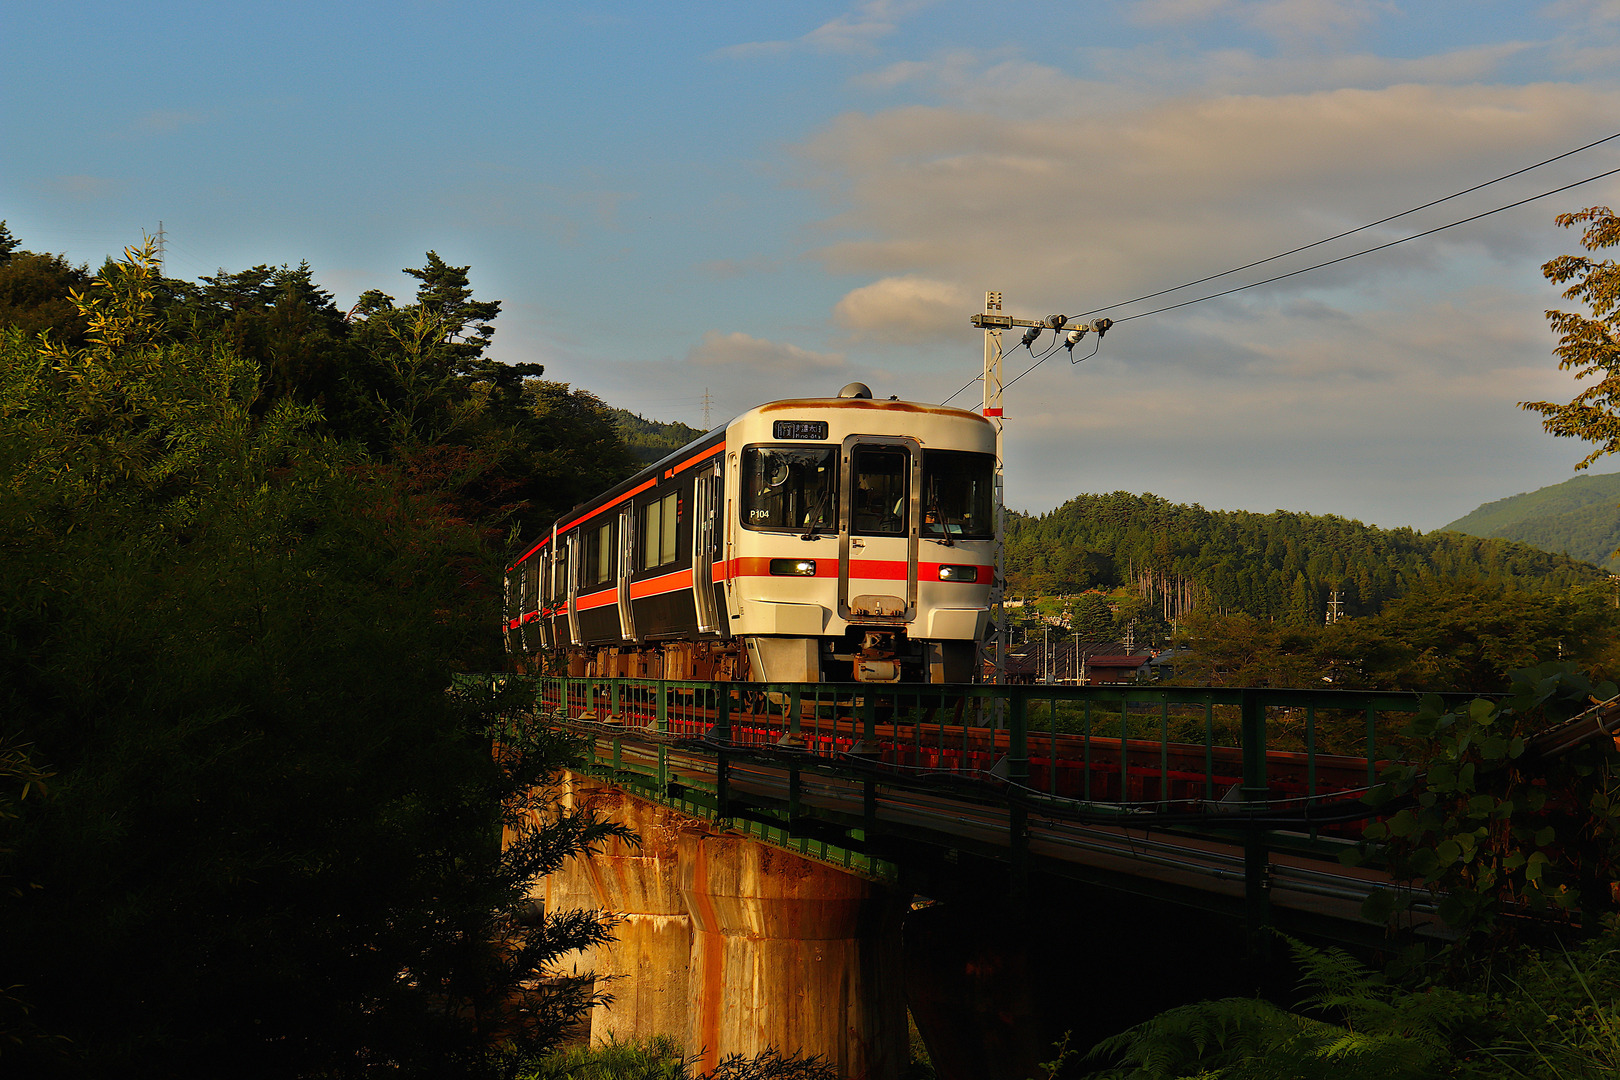
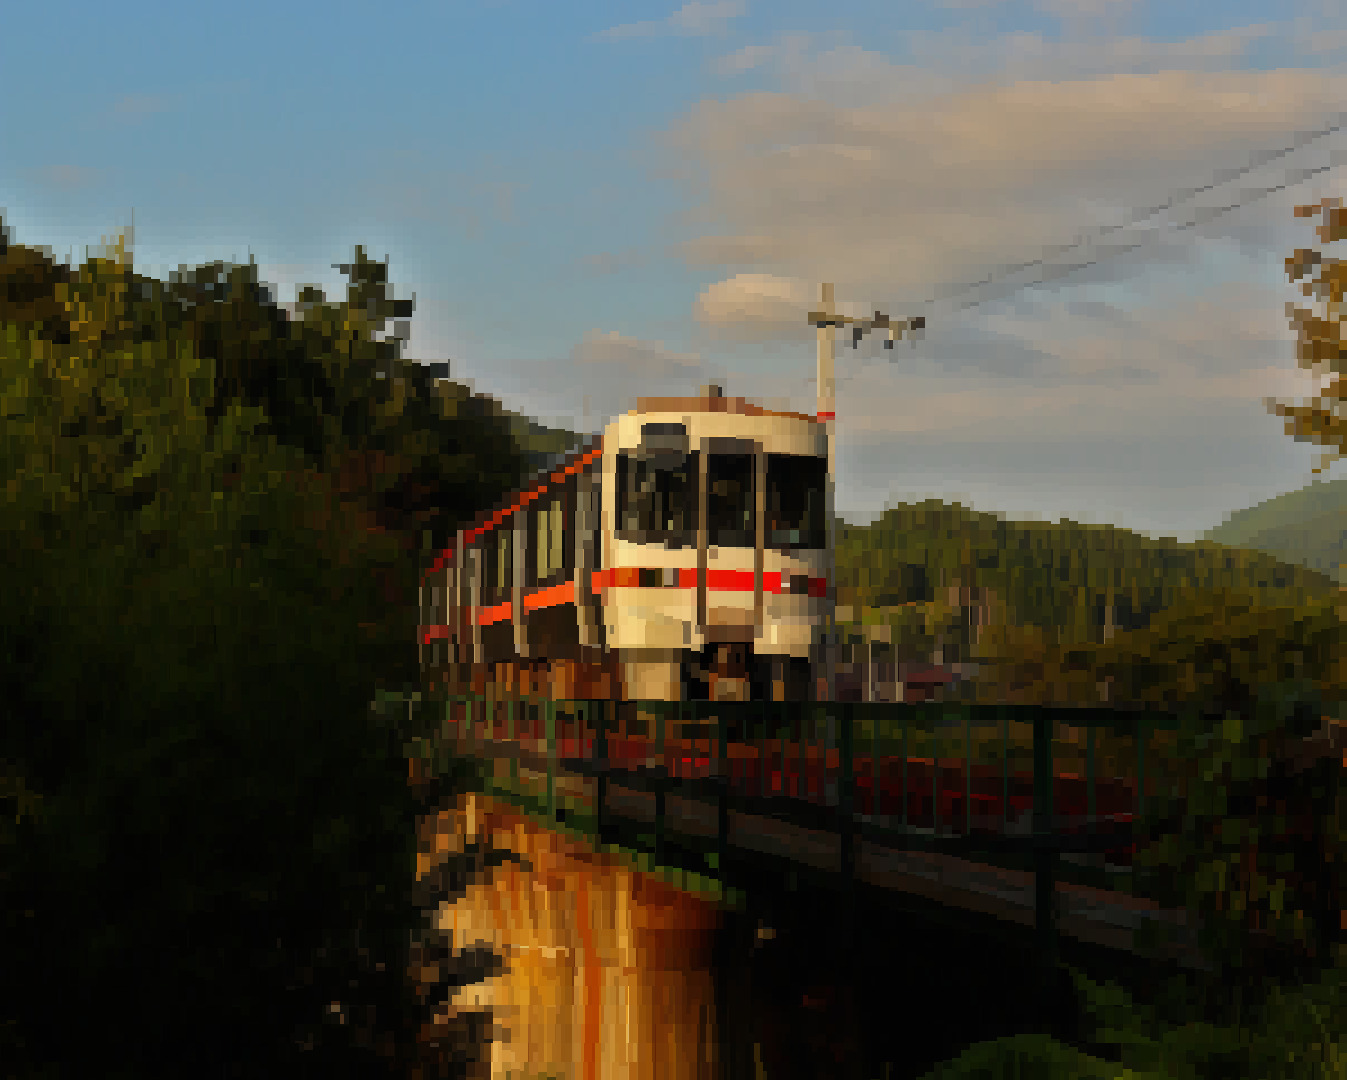
added project showcase section

diff --git a/projects.html b/projects.html
@@ -21,7 +21,66 @@
 <body>
 	<div class="container">
 		<div id="header"></div>
-		WIP
+
+		<section class="hero">
+
+			<div class="project-card">
+				<a class="project-link" href="vox_ren.html">
+					<div class="project-card-title">VoxRen</div>
+				</a>
+				<img class="project-card-image" src="assets/car.jpeg" alt="car">
+				<div class="technology-section">
+					<div class="technology-card">C</div>
+					<div class="technology-card">OpenCL</div>
+					<div class="technology-card">Python</div>
+					<div class="technology-card">Raylib</div>
+					<div class="technology-card">GUI app</div>
+				</div>
+				<div class="project-card-description">
+					A GPU pathtracer for voxel environments written in C and OpenCL (also some python scripts). It
+					supports lambert, metal, and light source materials, and I'm currently working on implementing
+					dielectric (transparent) materials. Very much WIP.
+				</div>
+			</div>
+
+			<div class="project-card">
+				<a class="project-link" href="ptmv.html">
+					<div class="project-card-title">ptmv</div>
+				</a>
+				<img class="project-card-image" src="assets/big_buck_bunny.gif" alt="video">
+				<div class="technology-section">
+					<div class="technology-card">Python</div>
+					<div class="technology-card">console app</div>
+				</div>
+				<div class="project-card-description">
+					A terminal app that can display static images and play videos (both local and from YouTube) by
+					using the unicode character "▄" as a set of two pixels. All main features have been implemented,
+					and it can be installed via PIP.
+				</div>
+			</div>
+
+			<div class="project-card">
+				<a class="project-link" href="itu.html">
+					<div class="project-card-title">imageToUnicode</div>
+				</a>
+				<img class="project-card-image" class="pixel-art" src="assets/train.jpeg" alt="train">
+				<div class="technology-section">
+					<div class="technology-card">C</div>
+					<div class="technology-card">Python</div>
+					<div class="technology-card">Single header C library</div>
+					<div class="technology-card">Python library</div>
+				</div>
+				<div class="project-card-description">
+					A project aimed to improve <a class="basic-link" href="ptmv.html">ptmv</a> by increasing the number
+					of unicode characters that can be used to display an image from 1 to 19. It is currently just a C
+					library, but I'm planning to make it into a python library (still using a C backend), and use it to
+					improve <a class="basic-link" href="ptmv.html">ptmv</a>.
+				</div>
+			</div>
+
+
+		</section>
+
 		<div id="footer"></div>
 	</div>
 

diff --git a/styles/projects.css b/styles/projects.css
@@ -1,0 +1,55 @@
+.hero {
+	margin: auto;
+	align-items: flex-start;
+}
+
+.project-link {
+	flex: 1;
+	/* margin: 1rem; */
+}
+
+.project-card {
+	color: var(--on-surface);
+	margin-bottom: 1rem;
+	padding: 1rem;
+	text-align: center;
+	background-color: var(--surface-color);
+	border-radius: 1rem;
+	transition: transform .2s;
+}
+
+.project-card-title {
+	color: var(--on-surface);
+	background-color: var(--primary-color);
+	font-size: 1.5rem;
+	font-weight: bold;
+	padding: 1rem;
+	border-radius: 1rem;
+}
+
+.project-card-image {
+	margin-top: 1rem;
+	width: 100%;
+	border-radius: 1rem;
+}
+
+.technology-section {
+	margin-top: 1rem;
+	display: flex;
+	justify-content: center;
+}
+
+.technology-card {
+	margin: 0rem 0.5rem;
+	padding: 0.25rem 0.5rem;
+	border-radius: 0.25rem;
+	background-color: var(--primary-color);
+}
+
+.project-card-description {
+	margin-top: 1em;
+	padding: 1rem;
+	color: var(--on-surface);
+	background-color: var(--surface-color-2);
+	border-radius: 1rem;
+}

diff --git a/index.html b/index.html
@@ -28,7 +28,7 @@
 					<div class="section-card-title">Projects</div>
 					<img class="section-card-image" src="assets/car.jpeg" alt="car">
 					<div class="section-card-description">
-						TODO: description
+						Descriptions and brief introductions to some of the main projects I'm working on.
 					</div>
 
 				</div>
@@ -38,7 +38,7 @@
 					<div class="section-card-title">Photos</div>
 					<img class="section-card-image" src="assets/train.jpeg" alt="car">
 					<div class="section-card-description">
-						TODO: description
+						A showcase of a number of photos I've taken over the years in a number of countries.
 					</div>
 				</div>
 			</a>

diff --git a/styles/shared.css b/styles/shared.css
@@ -30,6 +30,11 @@ a {
 	margin: auto;
 }
 
+.basic-link {
+	text-decoration: underline;
+	font-weight: bold;
+}
+
 /* header */
 
 .main-header {
